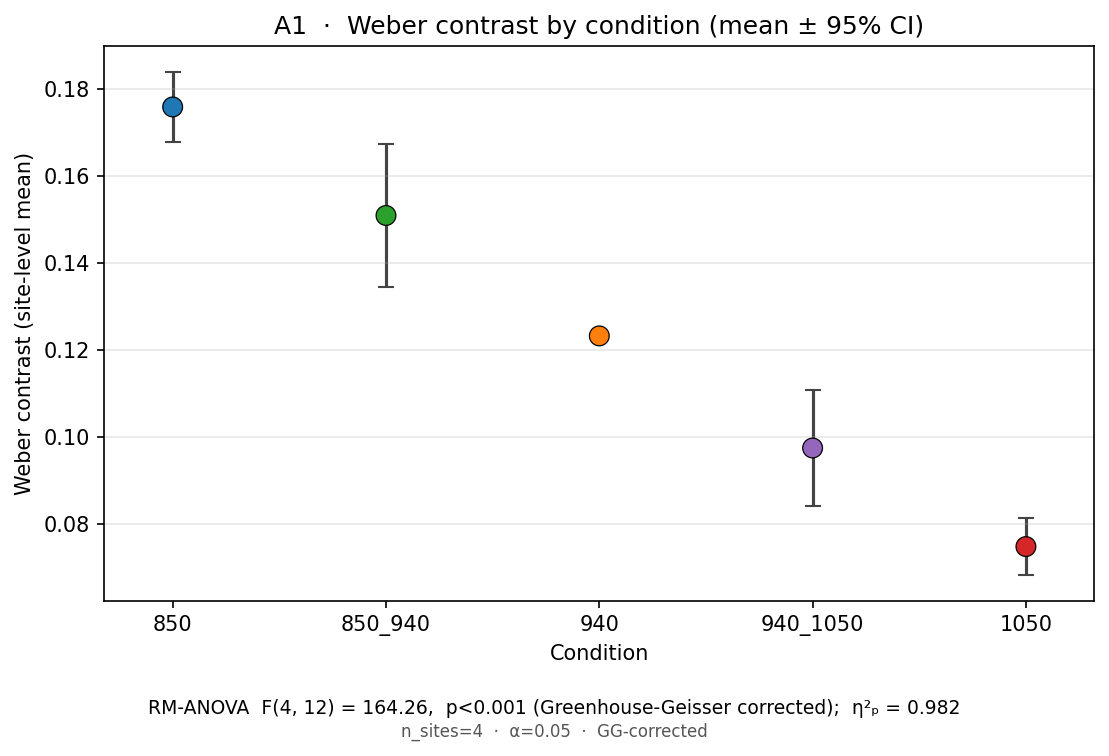
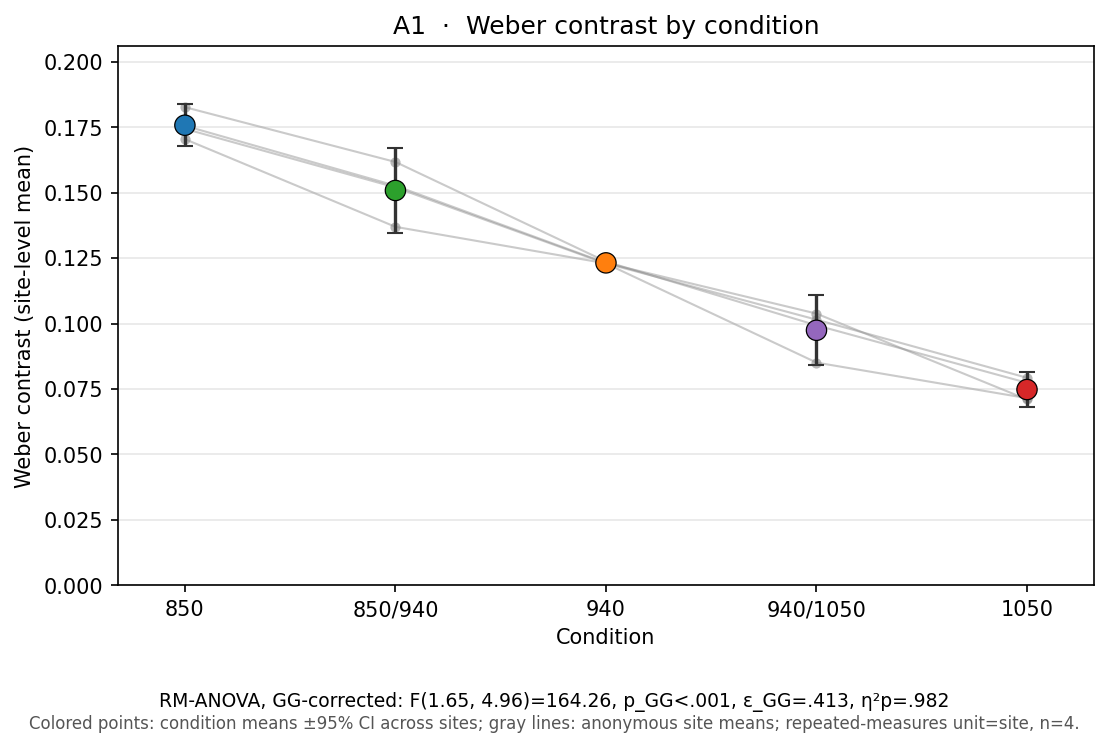
Add site-level condition means export and update A1 plotting functions

diff --git a/plots/a1.py b/plots/a1.py
@@ -14,14 +14,17 @@ import matplotlib.pyplot as plt
 import numpy as np
 
 from config import (
+    # A1_MAIN_FIGURE_CONDITION_ORDER,
+    CONDITION_DISPLAY_LABELS,
     CONDITION_ORDER,
     CONDITION_PALETTE,
     DPI,
     FIGSIZE,
+    SITE_ORDER,
     fmt_num,
     fmt_p,
 )
-from loader import condition_means_df
+from loader import condition_means_df, site_condition_means_df
 
 
 _TOL = 1e-9
@@ -33,36 +36,60 @@ def _as_float(value: object, label: str) -> float:
     return float(value)
 
 
+def _fmt_p_named(name: str, p: float) -> str:
+    if p is None:
+        return f"{name}=n/a"
+    if p < 0.001:
+        return f"{name}<.001"
+    return f"{name}={p:.3f}"
+
+
+def _fmt_trimmed(x: float, digits: int = 3) -> str:
+    text = f"{float(x):.{digits}f}"
+    if text.startswith("0."):
+        return text[1:]
+    if text.startswith("-0."):
+        return "-" + text[2:]
+    return text
+
+
 def _omnibus_line(a1: dict) -> str:
     omni = a1["omnibus"]
     es = a1["effect_size"]
     path = a1["path"]
     if path == "rm_anova":
         gg = omni.get("sphericity_correction_applied", False)
-        corr = " (Greenhouse-Geisser corrected)" if gg else ""
-        stat = (
-            f"RM-ANOVA  F({omni['df1']:g}, {omni['df2']:g}) = "
-            f"{fmt_num(omni['F'], 2)},  {fmt_p(omni['p_reported'])}{corr}"
-        )
+        if gg:
+            eps_gg = _as_float(omni["eps_gg"], "A1 eps_gg")
+            df1 = _as_float(omni["df1"], "A1 df1") * eps_gg
+            df2 = _as_float(omni["df2"], "A1 df2") * eps_gg
+            stat = (
+                f"RM-ANOVA, GG-corrected: F({df1:.2f}, {df2:.2f})="
+                f"{fmt_num(omni['F'], 2)}, {_fmt_p_named('p_GG', omni['p_gg'])}, "
+                f"ε_GG={_fmt_trimmed(omni['eps_gg'])}"
+            )
+        else:
+            stat = (
+                f"RM-ANOVA: F({omni['df1']:g}, {omni['df2']:g})="
+                f"{fmt_num(omni['F'], 2)}, {fmt_p(omni['p_reported'])}"
+            )
     else:
         stat = (
-            f"Friedman  Q({omni['dof']:g}) = {fmt_num(omni['Q'], 2)},  "
+            f"Friedman: Q({omni['dof']:g})={fmt_num(omni['Q'], 2)}, "
             f"{fmt_p(omni['p'])}"
         )
     if es.get("value") is not None:
-        label = "η²ₚ" if es["type"] == "partial_eta_sq" else "W"
-        stat += f";  {label} = {fmt_num(es['value'], 3)}"
+        label = "η²p" if es["type"] == "partial_eta_sq" else "W"
+        stat += f", {label}={_fmt_trimmed(es['value'])}"
     return stat
 
 
 def _provenance_line(a1: dict) -> str:
-    ap = a1["assumption_path"]
-    bits = [f"n_sites={a1['n_sites']}", f"α={a1['omnibus']['alpha']}"]
-    if ap.get("fallback_used"):
-        bits.append("Friedman fallback")
-    if ap.get("sphericity_correction_applied"):
-        bits.append("GG-corrected")
-    return "  ·  ".join(bits)
+    return (
+        "Colored points: condition means ±95% CI across sites; "
+        "gray lines: anonymous site means; "
+        f"repeated-measures unit=site, n={a1['n_sites']}."
+    )
 
 
 def _numerical_guard(a1: dict) -> None:
@@ -77,9 +104,48 @@ def _numerical_guard(a1: dict) -> None:
             )
 
 
+def _site_profile_guard(a1: dict, profiles) -> None:
+    expected_rows = int(a1["n_sites"]) * int(a1["n_conditions"])
+    if len(a1["site_condition_means"]) != expected_rows:
+        raise ValueError(
+            "A1 site_condition_means must contain one site-level mean per "
+            f"site-condition cell; got {len(a1['site_condition_means'])}, "
+            f"expected {expected_rows}"
+        )
+
+    official_means = {
+        row["condition"]: _as_float(row["mean"], f"{row['condition']} official mean")
+        for row in a1["condition_means"]
+    }
+    profile_means = profiles.mean(axis=0)
+    for cond, official_mean in official_means.items():
+        profile_mean = _as_float(profile_means.loc[cond], f"{cond} site-profile mean")
+        if abs(profile_mean - official_mean) > _TOL:
+            raise ValueError(
+                f"A1 site-profile check failed for {cond}: "
+                f"profile_mean={profile_mean} official_mean={official_mean}"
+            )
+
+
+def _a1_ylim(summary_df, profiles) -> tuple[float, float]:
+    upper = max(
+        _as_float(summary_df["ci_high"].max(), "A1 max CI high"),
+        _as_float(profiles.max().max(), "A1 max site profile mean"),
+    )
+    return 0.0, upper * 1.12
+
+
 def render_a1_mean_ci(a1: dict, out_path: Path) -> None:
     _numerical_guard(a1)
-    df = condition_means_df(a1["condition_means"])
+    df = condition_means_df(
+        a1["condition_means"],
+        condition_order=CONDITION_ORDER,
+    )
+    profiles = site_condition_means_df(
+        a1["site_condition_means"],
+        condition_order=CONDITION_ORDER,
+    )
+    _site_profile_guard(a1, profiles)
 
     fig, ax = plt.subplots(figsize=FIGSIZE)
     x = np.arange(len(CONDITION_ORDER))
@@ -88,24 +154,36 @@ def render_a1_mean_ci(a1: dict, out_path: Path) -> None:
     hi = df["ci_high"].to_numpy() - means
     colors = [CONDITION_PALETTE[c] for c in CONDITION_ORDER]
 
+    for site in SITE_ORDER:
+        y = profiles.loc[site].to_numpy()
+        ax.plot(
+            x, y, color="#8a8a8a", linewidth=1.0, alpha=0.45, zorder=1,
+        )
+        ax.scatter(
+            x, y, color="#8a8a8a", s=24, alpha=0.6, linewidth=0, zorder=2,
+        )
+
     ax.errorbar(
         x, means, yerr=[lo, hi], fmt="none",
-        ecolor="#444444", elinewidth=1.5, capsize=4, zorder=1,
+        ecolor="#333333", elinewidth=1.6, capsize=4, zorder=3,
     )
-    ax.scatter(x, means, c=colors, s=90, zorder=2, edgecolor="black", linewidth=0.6)
+    ax.scatter(x, means, c=colors, s=95, zorder=4, edgecolor="black", linewidth=0.6)
 
     ax.set_xticks(x)
-    ax.set_xticklabels(CONDITION_ORDER)
+    ax.set_xticklabels(
+        [CONDITION_DISPLAY_LABELS[c] for c in CONDITION_ORDER]
+    )
     ax.set_xlabel("Condition")
     ax.set_ylabel("Weber contrast (site-level mean)")
-    ax.set_title("A1  ·  Weber contrast by condition (mean ± 95% CI)")
+    ax.set_title("A1  ·  Weber contrast by condition")
+    ax.set_ylim(*_a1_ylim(df, profiles))
     ax.grid(True, alpha=0.3, axis="y")
     ax.margins(x=0.08)
 
-    fig.text(0.5, 0.035, _omnibus_line(a1), ha="center", fontsize=9)
-    fig.text(0.5, 0.005, _provenance_line(a1), ha="center", fontsize=8, color="#555555")
+    fig.text(0.5, 0.045, _omnibus_line(a1), ha="center", fontsize=9)
+    fig.text(0.5, 0.015, _provenance_line(a1), ha="center", fontsize=8, color="#555555")
 
-    fig.tight_layout(rect=(0, 0.07, 1, 1))
+    fig.tight_layout(rect=(0, 0.09, 1, 1))
     fig.savefig(out_path, dpi=DPI, bbox_inches="tight")
     plt.close(fig)
 

diff --git a/plots/loader.py b/plots/loader.py
@@ -85,11 +85,13 @@ def load_a1() -> JsonDict:
     _require_keys(
         data,
         ["condition_means", "path", "omnibus", "effect_size",
-         "assumption_path", "posthoc", "ranking_desc_by_mean"],
+         "assumption_path", "posthoc", "ranking_desc_by_mean",
+         "site_condition_means"],
         "a1_results.json",
     )
     conds = [row["condition"] for row in data["condition_means"]]
     _assert_conditions_covered(conds, "a1_results.json::condition_means")
+    site_condition_means_df(data["site_condition_means"])
     return data
 
 
@@ -156,9 +158,39 @@ def load_raw_dataset() -> pd.DataFrame:
     return df
 
 
-def condition_means_df(condition_means: list) -> pd.DataFrame:
+def condition_means_df(
+    condition_means: list,
+    condition_order: list[str] | None = None,
+) -> pd.DataFrame:
     df = pd.DataFrame(condition_means).set_index("condition")
-    return df.reindex(CONDITION_ORDER)
+    return df.reindex(condition_order or CONDITION_ORDER)
+
+
+def site_condition_means_df(
+    site_condition_means: list,
+    condition_order: list[str] | None = None,
+) -> pd.DataFrame:
+    source = "a1_results.json::site_condition_means"
+    df = pd.DataFrame(site_condition_means)
+    needed = {"site", "condition", "mean"}
+    missing = needed - set(df.columns)
+    if missing:
+        raise ArtifactSchemaError(
+            f"{source} missing columns: {sorted(missing)}"
+        )
+    _assert_conditions_covered(df["condition"].astype(str).tolist(), source)
+    _assert_sites_covered(df["site"].astype(str).tolist(), source)
+    matrix = df.pivot(index="site", columns="condition", values="mean")
+    matrix = matrix.reindex(
+        index=SITE_ORDER,
+        columns=condition_order or CONDITION_ORDER,
+    )
+    if matrix.isna().any().any():
+        missing_count = int(matrix.isna().sum().sum())
+        raise ArtifactSchemaError(
+            f"{source} has {missing_count} missing site-condition cells"
+        )
+    return matrix
 
 
 def bootstrap_cis_df(bootstrap_cis: list) -> pd.DataFrame:

diff --git a/analysis/tests.py b/analysis/tests.py
@@ -66,6 +66,21 @@ def _condition_means_with_ci(matrix):
     return out
 
 
+def _site_condition_means(matrix):
+    """Export-only provenance for the site-level matrix used by A1."""
+    out = []
+    for site, row in matrix.iterrows():
+        for cond, value in row.items():
+            out.append(
+                {
+                    "site": str(site),
+                    "condition": str(cond),
+                    "mean": float(value),
+                }
+            )
+    return out
+
+
 def _condition_cv_point_estimates(matrix):
     out = []
     for cond in matrix.columns:
@@ -238,7 +253,7 @@ def _apply_holm(posthoc_rows):
             row["reject_holm_at_0.05"] = False
 
 
-def run_rm_pipeline(df, metric, assumption_block):
+def run_rm_pipeline(df, metric, assumption_block, export_site_condition_means=False):
     matrix = site_level_matrix(df, metric)
     means = _condition_means_with_ci(matrix)
     fallback = bool(assumption_block["friedman_fallback_triggered"])
@@ -250,7 +265,7 @@ def run_rm_pipeline(df, metric, assumption_block):
             sphericity_correction_applied=assumption_block["sphericity_correction_applied"],
         )
     ranking = sorted(means, key=lambda d: d["mean"], reverse=True)
-    return {
+    result = {
         "metric": metric,
         "n_sites": int(matrix.shape[0]),
         "n_conditions": int(matrix.shape[1]),
@@ -266,10 +281,18 @@ def run_rm_pipeline(df, metric, assumption_block):
         "ranking_desc_by_mean": [d["condition"] for d in ranking],
         **omnibus,
     }
+    if export_site_condition_means:
+        result["site_condition_means"] = _site_condition_means(matrix)
+    return result
 
 
 def run_a1(df, assumptions):
-    return run_rm_pipeline(df, "weber", assumptions["weber"])
+    return run_rm_pipeline(
+        df,
+        "weber",
+        assumptions["weber"],
+        export_site_condition_means=True,
+    )
 
 
 def run_michelson(df, assumptions):

diff --git a/plots/config.py b/plots/config.py
@@ -10,7 +10,16 @@ GENERATOR_OUTPUT_DIR = REPO_ROOT / "generator" / "output"
 PLOTS_OUTPUT_DIR = REPO_ROOT / "plots" / "output"
 
 CONDITION_ORDER = ["850", "850_940", "940", "940_1050", "1050"]
+# A1_MAIN_FIGURE_CONDITION_ORDER = ["850", "940", "1050", "850_940", "940_1050"]
 SITE_ORDER = ["dorsal_hand_L", "dorsal_hand_R", "antecubital_L", "antecubital_R"]
+
+CONDITION_DISPLAY_LABELS = {
+    "850": "850",
+    "940": "940",
+    "1050": "1050",
+    "850_940": "850/940",
+    "940_1050": "940/1050",
+}
 
 CONDITION_PALETTE = {
     "850": "#1f77b4",

diff --git a/plots/README.md b/plots/README.md
@@ -35,7 +35,7 @@ Written to `plots/output/`:
 
 | File | Source |
 | --- | --- |
-| `a1_condition_means_ci.png` | `a1_results.json::condition_means` |
+| `a1_condition_means_ci.png` | `a1_results.json::condition_means` + exported site means |
 | `a1_posthoc_matrix.png` | `a1_results.json::posthoc` |
 | `a3_condition_cv_ci.png` | `a3_results.json::bootstrap_cis` + `a3_results.json::cv_matrix` |
 | `michelson_vs_weber.png` | `a1_results.json` + `michelson_results.json` |
@@ -59,6 +59,7 @@ The plots stage is also wired into `run_pipeline.py` as the final stage.
 ## Conventions
 
 - Canonical condition order (locked in v1): `["850", "850_940", "940", "940_1050", "1050"]`.
+- A1 main-figure display order: `["850", "940", "1050", "850_940", "940_1050"]`.
 - Canonical site order: `["dorsal_hand_L", "dorsal_hand_R", "antecubital_L", "antecubital_R"]`.
 - Library: matplotlib only.
 - Captions surface the analysis pathway (RM-ANOVA vs. Friedman fallback,
